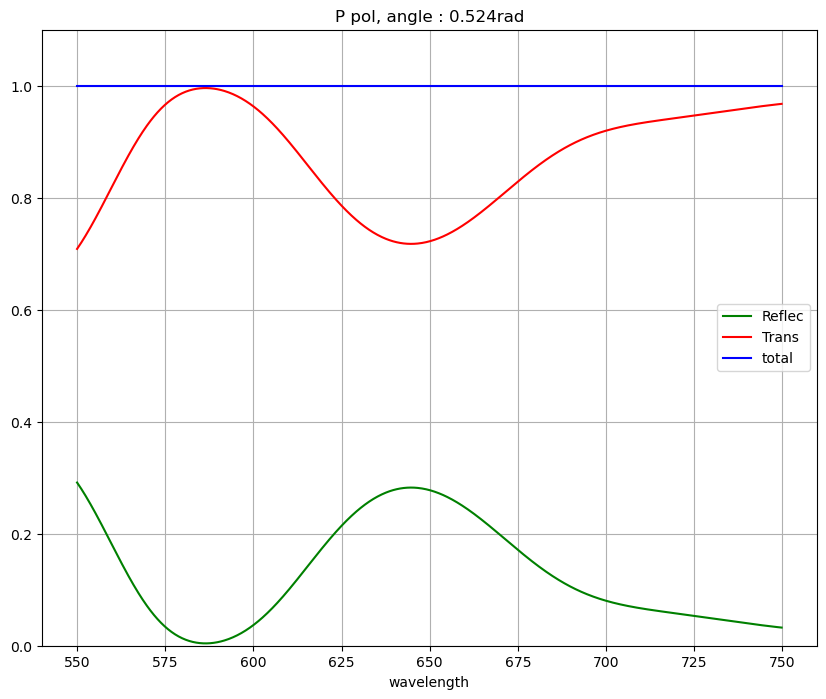
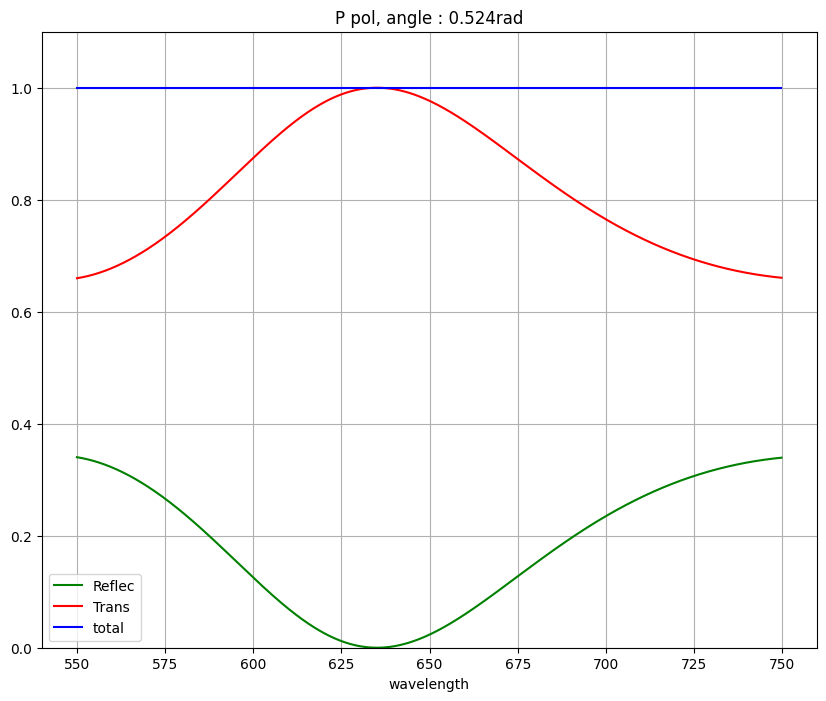
backup

diff --git a/example.py b/example.py
@@ -18,10 +18,10 @@ example.set_incidentangle(angle=np.pi/6, unit='radian')
 print('modified incident angle : ', example.incangle)
 # print '%.2e' %example.wavelength
 
-example.set_mediumindex(1, 1.2, 1.1, 2.2, 1.4, 1)
+example.set_mediumindex(1, 2.2, 1)
 #example.set_mediumtype('magnetic',[1,2,3,2,1])
 example.set_mediumtype('nonmagnetic')
-example.set_mediumthick(800*nm, 502.4*nm, 753.6*nm, 402.4*nm)
+example.set_mediumthick(500*nm)
 
 size = (10,8)
 
